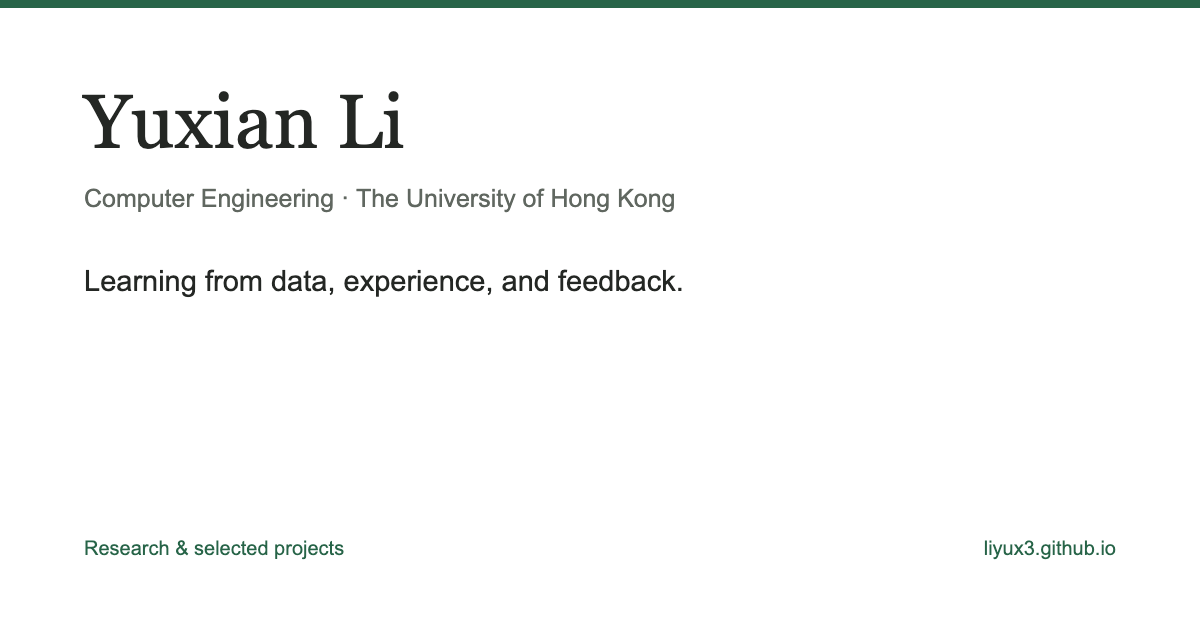
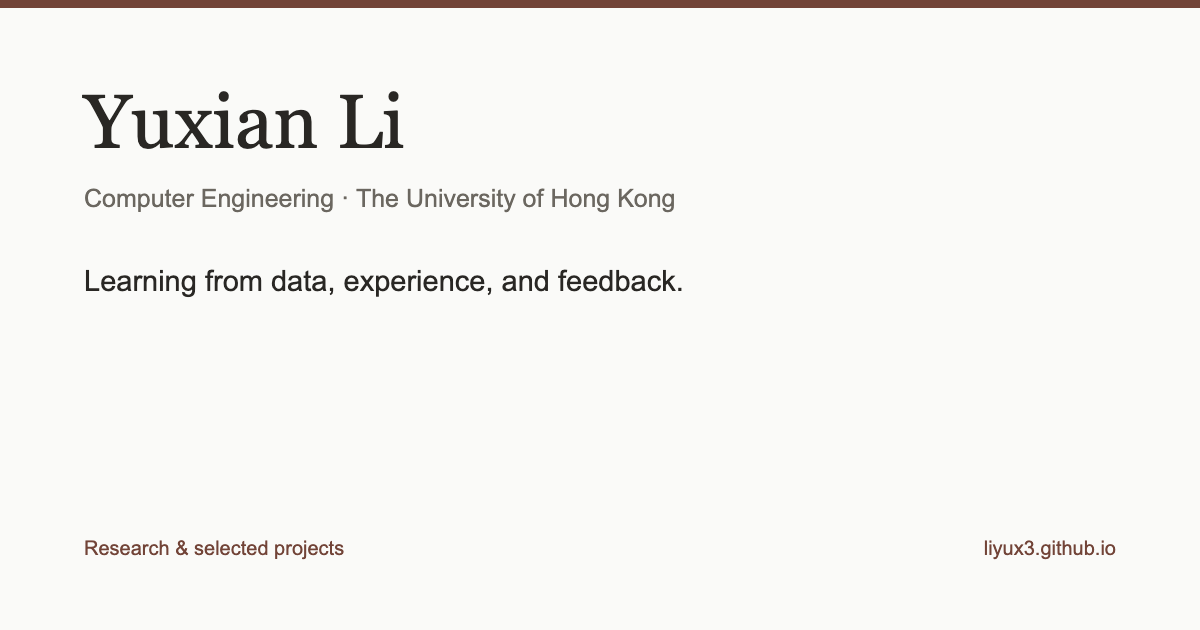
Publish research website 2026-10-22

Changed region(s): [[0.0, 0.0, 1.0, 0.0302], [0.0617, 0.8444, 0.2775, 0.9048], [0.8325, 0.8444, 0.925, 0.9048]]

diff --git a/site.css b/site.css
@@ -1,38 +1,42 @@
 :root {
   color-scheme: light;
-  --ink: #252528;
-  --muted: #62626b;
-  --link: #435b86;
-  --line: #e4e4e8;
-  --paper: #fff;
-  --wash: #f5f5f7;
-  --secondary: #50505a;
-  --quiet: #72727c;
-  --disabled: #92929b;
-  --hover: #283f67;
-  --flow-paper: #f2f3f6;
-  --flow-ink: #465164;
-  --flow-line: #c6cbd5;
+  --ink: #292724;
+  --muted: #6b6760;
+  --link: #724438;
+  --line: #e5e3de;
+  --paper: #fafaf8;
+  --wash: #f2f1ee;
+  --secondary: #53504a;
+  --quiet: #716b63;
+  --disabled: #95918a;
+  --hover: #67322e;
+  --selection: #e9d7c8;
+  --flow-paper: #f0efeb;
+  --flow-ink: #5e5147;
+  --flow-line: #d2c8be;
   --serif: Georgia, 'Times New Roman', serif;
   --sans: -apple-system, BlinkMacSystemFont, 'Segoe UI', Helvetica, Arial, sans-serif;
 }
 @media (prefers-color-scheme: dark) {
   :root:not([data-theme="light"]) {
     color-scheme: dark;
-    --paper: #171719; --ink: #e7e5e4; --muted: #a5a5ae;
-    --link: #b6c7e7; --line: #343438; --wash: #222225;
-    --secondary: #c2c2ca; --quiet: #a8a8b1; --disabled: #777780; --hover: #d8e3f7;
-    --flow-paper: #202126; --flow-ink: #ced2dd; --flow-line: #444853;
+    --paper: #151515; --ink: #ececea; --muted: #a19e96;
+    --link: #d5ab85; --line: #30302d; --wash: #21211f;
+    --secondary: #d6d4cd; --quiet: #aaa59b; --disabled: #7b7972; --hover: #ecd1b7;
+    --selection: #514235;
+    --flow-paper: #1b1b1a; --flow-ink: #d3c7ad; --flow-line: #46433c;
   }
 }
 :root[data-theme="dark"] {
   color-scheme: dark;
-  --paper: #171719; --ink: #e7e5e4; --muted: #a5a5ae;
-  --link: #b6c7e7; --line: #343438; --wash: #222225;
-  --secondary: #c2c2ca; --quiet: #a8a8b1; --disabled: #777780; --hover: #d8e3f7;
-  --flow-paper: #202126; --flow-ink: #ced2dd; --flow-line: #444853;
+  --paper: #151515; --ink: #ececea; --muted: #a19e96;
+  --link: #d5ab85; --line: #30302d; --wash: #21211f;
+  --secondary: #d6d4cd; --quiet: #aaa59b; --disabled: #7b7972; --hover: #ecd1b7;
+  --selection: #514235;
+  --flow-paper: #1b1b1a; --flow-ink: #d3c7ad; --flow-line: #46433c;
 }
 * { box-sizing: border-box; letter-spacing: 0; }
+::selection { background: var(--selection); color: var(--ink); }
 html { scroll-behavior: smooth; scroll-padding-top: 28px; }
 body { position: relative; isolation: isolate; margin: 0; background: var(--paper); color: var(--ink); font: 16px/1.65 var(--sans); -webkit-font-smoothing: antialiased; }
 .home-group { display: flex; gap: 6px; align-items: center; }
@@ -189,7 +193,7 @@ footer a { color: inherit; text-decoration: none; }
 }
 @media (prefers-reduced-motion: reduce) { html { scroll-behavior: auto; } }
 @media print {
-  :root, :root[data-theme], :root:not([data-theme]) { color-scheme: light; --paper: #fff; --ink: #111; --muted: #555; --secondary: #333; --quiet: #555; --line: #ddd; --wash: #f5f5f5; --flow-paper: #f3f5f8; --flow-ink: #384b63; --flow-line: #bac7d5; }
+  :root, :root[data-theme], :root:not([data-theme]) { color-scheme: light; --paper: #fff; --ink: #111; --muted: #555; --secondary: #333; --quiet: #555; --line: #ddd; --wash: #f5f5f5; --flow-paper: #f3f3f3; --flow-ink: #333; --flow-line: #ccc; }
   @page { size: A4; margin: 15mm 17mm; }
   body { font-size: 10pt; color: #111; }
   .shell { max-width: none; padding: 0; }

diff --git a/404.html b/404.html
@@ -2,7 +2,7 @@
 <html lang="en"><head>
 <meta charset="utf-8"><meta name="viewport" content="width=device-width,initial-scale=1">
 <title>Page not found | Yuxian Li</title><meta name="description" content="Yuxian Li is a Computer Engineering undergraduate at the University of Hong Kong, working on robot learning, concept-level visual evaluation, and tools for research agents.">
-<meta name="author" content="Yuxian Li"><meta name="color-scheme" content="light dark"><meta name="theme-color" content="#ffffff" media="(prefers-color-scheme: light)"><meta name="theme-color" content="#171719" media="(prefers-color-scheme: dark)">
+<meta name="author" content="Yuxian Li"><meta name="color-scheme" content="light dark"><meta name="theme-color" content="#fafaf8" media="(prefers-color-scheme: light)"><meta name="theme-color" content="#151515" media="(prefers-color-scheme: dark)">
 <script>try{const t=localStorage.getItem('yuxian.theme');if(t==='light'||t==='dark')document.documentElement.dataset.theme=t;}catch{}</script>
 <link rel="canonical" href="https://liyux3.github.io/404"><link rel="icon" href="/favicon.ico" sizes="any"><link rel="icon" href="/assets/favicon.svg" type="image/svg+xml"><link rel="apple-touch-icon" href="/apple-touch-icon.png">
 <meta property="og:type" content="website"><meta property="og:title" content="Page not found | Yuxian Li">

diff --git a/privacy/index.html b/privacy/index.html
@@ -2,7 +2,7 @@
 <html lang="en"><head>
 <meta charset="utf-8"><meta name="viewport" content="width=device-width,initial-scale=1">
 <title>Yuxian Li | Privacy</title><meta name="description" content="Yuxian Li is a Computer Engineering undergraduate at the University of Hong Kong, working on robot learning, concept-level visual evaluation, and tools for research agents.">
-<meta name="author" content="Yuxian Li"><meta name="color-scheme" content="light dark"><meta name="theme-color" content="#ffffff" media="(prefers-color-scheme: light)"><meta name="theme-color" content="#171719" media="(prefers-color-scheme: dark)">
+<meta name="author" content="Yuxian Li"><meta name="color-scheme" content="light dark"><meta name="theme-color" content="#fafaf8" media="(prefers-color-scheme: light)"><meta name="theme-color" content="#151515" media="(prefers-color-scheme: dark)">
 <script>try{const t=localStorage.getItem('yuxian.theme');if(t==='light'||t==='dark')document.documentElement.dataset.theme=t;}catch{}</script>
 <link rel="canonical" href="https://liyux3.github.io/privacy/"><link rel="icon" href="/favicon.ico" sizes="any"><link rel="icon" href="/assets/favicon.svg" type="image/svg+xml"><link rel="apple-touch-icon" href="/apple-touch-icon.png">
 <meta property="og:type" content="website"><meta property="og:title" content="Yuxian Li | Privacy">

diff --git a/index.html b/index.html
@@ -2,7 +2,7 @@
 <html lang="en"><head>
 <meta charset="utf-8"><meta name="viewport" content="width=device-width,initial-scale=1">
 <title>Yuxian Li | Research</title><meta name="description" content="Yuxian Li is a Computer Engineering undergraduate at the University of Hong Kong, working on robot learning, concept-level visual evaluation, and tools for research agents.">
-<meta name="author" content="Yuxian Li"><meta name="color-scheme" content="light dark"><meta name="theme-color" content="#ffffff" media="(prefers-color-scheme: light)"><meta name="theme-color" content="#171719" media="(prefers-color-scheme: dark)">
+<meta name="author" content="Yuxian Li"><meta name="color-scheme" content="light dark"><meta name="theme-color" content="#fafaf8" media="(prefers-color-scheme: light)"><meta name="theme-color" content="#151515" media="(prefers-color-scheme: dark)">
 <script>try{const t=localStorage.getItem('yuxian.theme');if(t==='light'||t==='dark')document.documentElement.dataset.theme=t;}catch{}</script>
 <link rel="canonical" href="https://liyux3.github.io/"><link rel="icon" href="/favicon.ico" sizes="any"><link rel="icon" href="/assets/favicon.svg" type="image/svg+xml"><link rel="apple-touch-icon" href="/apple-touch-icon.png">
 <meta property="og:type" content="website"><meta property="og:title" content="Yuxian Li | Research">

diff --git a/site.js b/site.js
@@ -12,7 +12,8 @@ function applyTheme() {
   themeButton.dataset.mode = isDark ? 'dark' : 'light';
   themeButton.setAttribute('aria-label', label);
   themeButton.title = label;
-  for (const meta of document.querySelectorAll('meta[name="theme-color"]')) meta.content = isDark ? '#171719' : '#ffffff';
+  const background = getComputedStyle(document.documentElement).getPropertyValue('--paper').trim();
+  for (const meta of document.querySelectorAll('meta[name="theme-color"]')) meta.content = background;
 }
 themeButton?.addEventListener('click', () => {
   themeMode = isDarkTheme() ? 'light' : 'dark';
